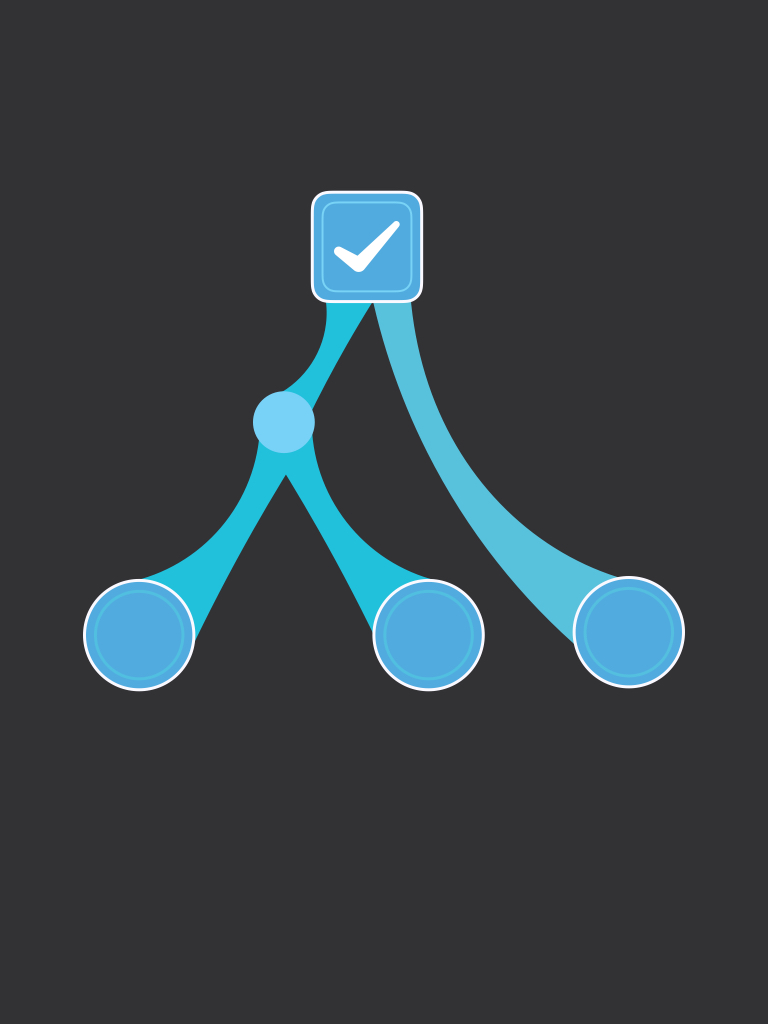
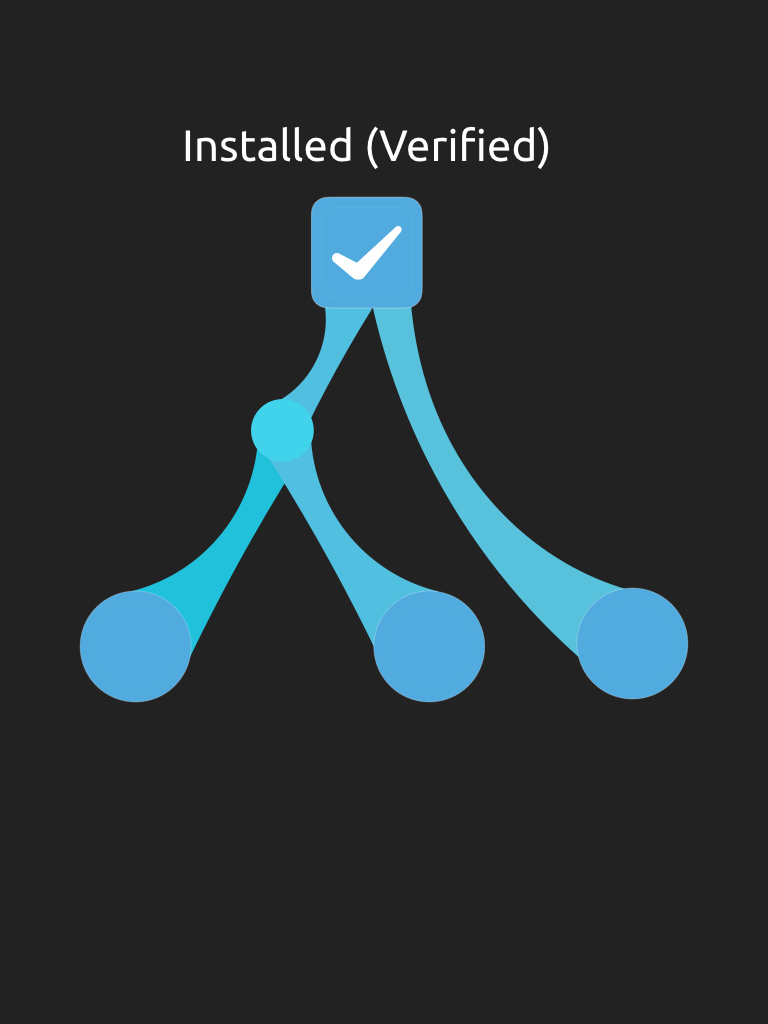
added image changing

diff --git a/public/clientScript.js b/public/clientScript.js
@@ -8,7 +8,7 @@ var socket = io.connect('/');
 // Functions to interact with Tierion 
 /************************************************************/
 
-// Get Records from Tierion 
+
 
 // register the grid component
 Vue.component('demo-grid', {
@@ -64,8 +64,35 @@ Vue.component('demo-grid', {
   }
 })
 
-socket.on("newEvent", function(data) {
+function getRandomInt(min, max) {
+    return Math.floor(Math.random() * (max - min + 1)) + min;
+}
+
+// Change image 
+function changeImage(status) { 
+  console.log("changing images");
+  var image = document.getElementById("merkle"); 
+  if(status == 0) {
+      image.src = "images/00.jpeg"; 
+  } else if (status == 1) {
+      image.src = "images/01.jpeg"; 
+  } else {
+      var rand = getRandomInt(1,2); 
+      if(rand == 1) { 
+        image.src = "images/02a.jpeg"; 
+      } else { 
+        image.src = "images/02b.jpeg"; 
+      }
+      
+  }
+}
+
+
+socket.on("newEvent", function(data, status) {
 	gridData.unshift(data);
+  // console.log(status);
+  changeImage(status);
+  
 
 })
 

diff --git a/public/socketServer.js b/public/socketServer.js
@@ -106,9 +106,9 @@ function getLocalRecords() {
 
 }
 
-function writeToDisplay(chosen) {  // TODO: Update writeToDisplay(status) 
+function writeToDisplay(chosen, status) {  // TODO: Update writeToDisplay(status) 
 	db.read().get('events').unshift(chosen).write(); 
-	io.emit('newEvent', chosen); 
+	io.emit('newEvent', chosen, status); 
 	/*
 	if(status == 0) { // manufactured
 		// update image to a particular one
@@ -241,7 +241,7 @@ function writeTagToBlockchain(status, root) {
 
 	console.log(data);
 	
-	writeToDisplay(data); // DISPLAY ON FRONT-END
+	writeToDisplay(data, status); // DISPLAY ON FRONT-END
 	// var payload = generatePayload(data, status); 
 	// writeToTierion(payload); 
 }
@@ -340,11 +340,13 @@ function sendToSerial(data) { // data = 'k'
 // 	i++; 
 // }, 1000)
 
+var counter = 0; 
 
-// setInterval(function(){
-// 	// getLocalRecords();
-// 	writeTagToBlockchain(2, "N/A");
-// }, 3000);
+setInterval(function(){
+	// getLocalRecords();
+	writeTagToBlockchain(counter % 3, "N/A");
+	counter++; 
+}, 3000);
 
 
 
